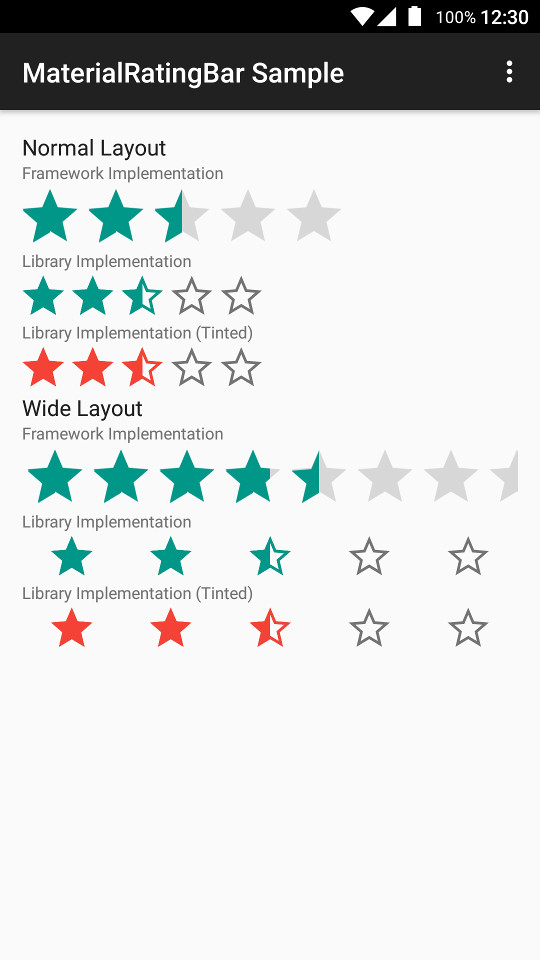
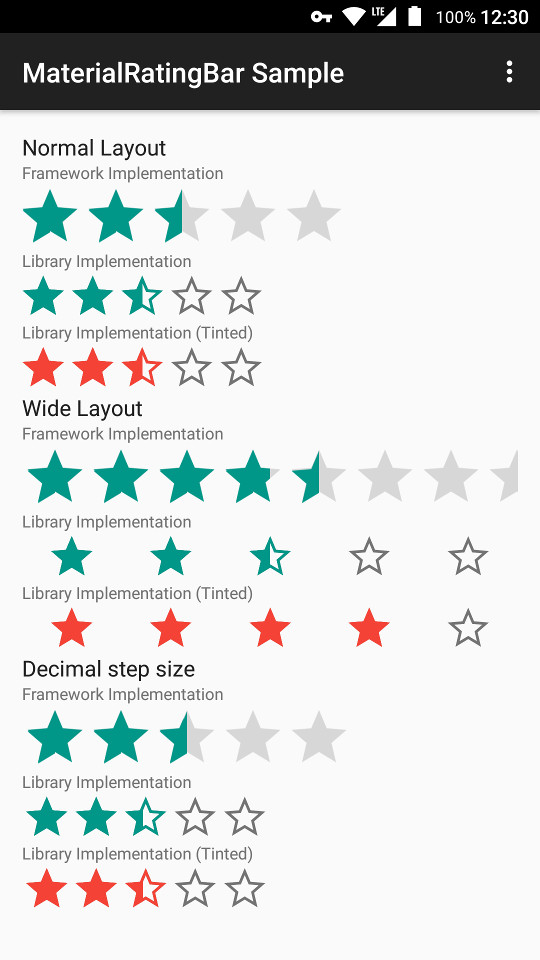
[Feature] Add decimal rating to README.

diff --git a/README.md b/README.md
@@ -11,6 +11,8 @@ Material Design `RatingBar` with better appearance, compatible with Android 2.3+
 - Get the 2dp star border background as in Material Icons and Google apps.
 - Able to render correctly when `layout_width` is set to `match_parent`, as in Google Play Store.
 - Able to scale correctly when `layout_height` is set to values other than 16dp, 36dp and 48dp.
+- Able to display ratings such as `4.3` correctly, which will be filled to `4.5` by framework's incorrect implementation.
+- Avoid framework's sunken half star visual glitch.
 - Used as a drop-in replacement for framework `RatingBar`.
 
 ## Preview
@@ -42,7 +44,7 @@ For example, to create a normal `MaterialRatingBar`:
 
 In order to make your `RatingBar` take the correct and consistent size on all versions, you will always need to use one of the styles from this library. The trick inside it is `android:minHeight` and `android:maxHeight` that controls the drawable height.
 
-You can checkout more style variants are in [styles.xml](library/src/main/res/values/styles.xml)
+You can checkout more small or indicator variants in [styles.xml](library/src/main/res/values/styles.xml)
 
 8 tint-related attributes such as `android:mrb_progressTint` and `app:mrb_progressTintMode` are also supported so that they can control the tinting of rating drawables. The default tint color is `?colorControlActivated`, and the default tint mode is `src_in`.
 
